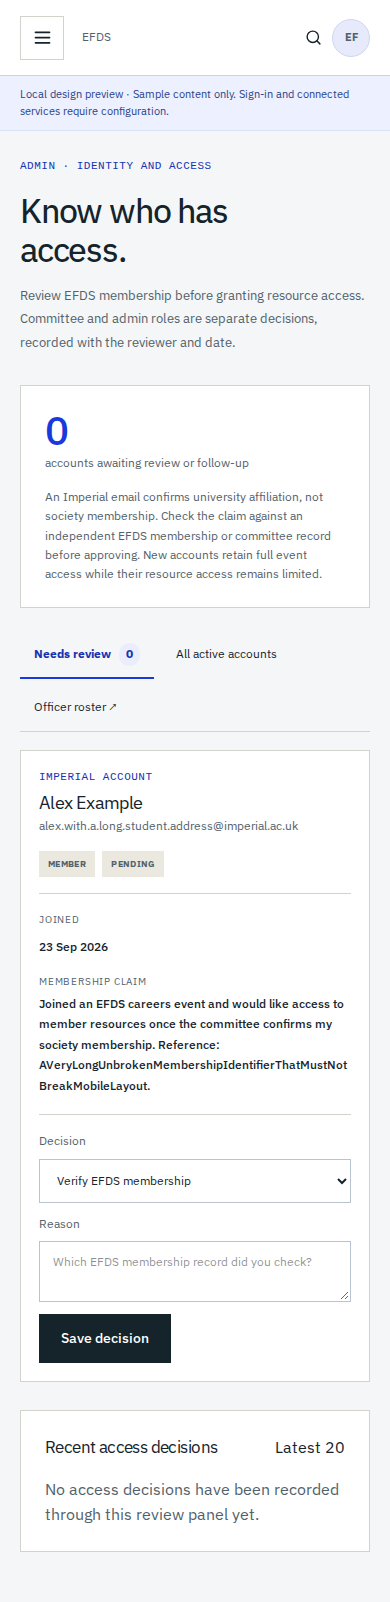
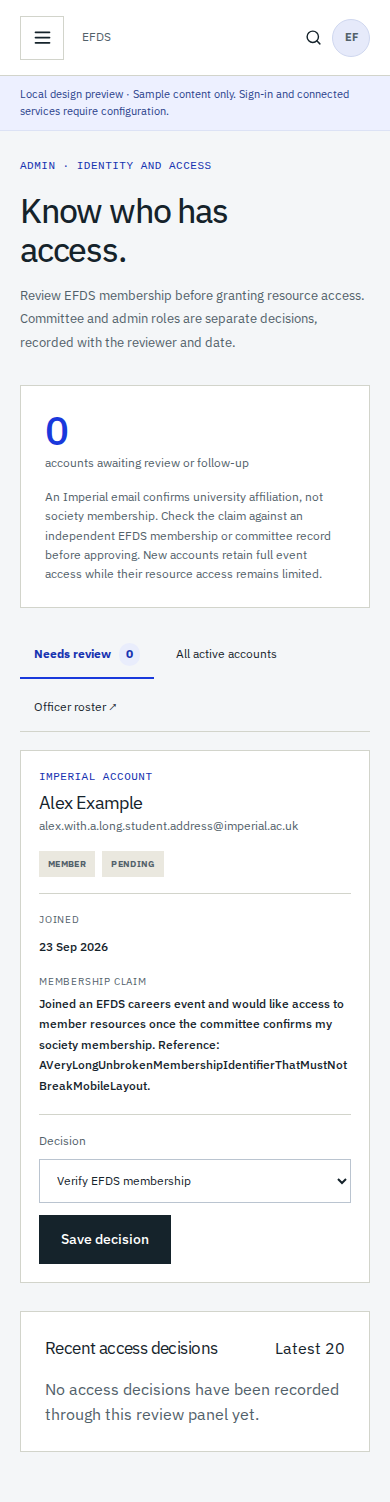
Merge committee and admin overview and simplify account review

Changed region(s): [[0.0308, 0.0, 0.9231, 0.8575], [0.0923, 0.8881, 0.8923, 0.9494]]

diff --git a/app/(private)/dashboard/page.tsx b/app/(private)/dashboard/page.tsx
@@ -1,5 +1,6 @@
 import Link from "next/link";
 import { ArrowUpRight, BookOpen, BriefcaseBusiness, Search, MessagesSquare, Plus } from "lucide-react";
+import { AdminOperationsSummary } from "@/components/dashboard/admin-operations-summary";
 import { DisciplineGraphic } from "@/components/public/discipline-graphic";
 import { TicketCard } from "@/components/tickets/ticket-card";
 import { DailySlackRecap } from "@/components/slack/daily-recap";
@@ -13,9 +14,10 @@ export default async function DashboardPage() {
   if (profile && hasMinimumRole(profile.accessRole, "committee")) {
     const [{ tickets, timelines }, recap] = await Promise.all([getTicketWorkspace(), getDailySlackRecap()]);
     const counts = ticketCounts(tickets);
+    const isAdmin = profile.accessRole === "admin";
     const mine = profile.officerId ? tickets.filter((ticket) => ticket.assignees.some((officer) => officer.id === profile.officerId) && ticket.status !== "completed" && ticket.status !== "cancelled") : [];
     const focus = (mine.length ? mine : tickets.filter((ticket) => ticket.status === "blocked" || ticket.status === "in_progress" || ticket.status === "open")).slice(0, 4);
-    return <div className="app-content ticket-page"><div className="eyebrow">Committee workspace</div><div className="ticket-page-heading"><div><h1>What needs<br />doing next.</h1><p className="app-subtitle">A live view of committee work, assignments and progress.</p></div><div className="ops-inline">{profile.accessRole === "admin" && <Link className="button button-quiet" href="/admin/accounts">Review accounts <ArrowUpRight size={15} /></Link>}<Link className="button button-primary" href="/dashboard/tickets/new"><Plus size={16} /> New ticket</Link></div></div><section className="ticket-metrics" aria-label="Ticket overview"><div><span>Left to complete</span><strong>{counts.left}</strong><small>{counts.total} total tickets</small></div><div><span>In progress</span><strong>{counts.inProgress}</strong><small>Being worked on</small></div><div><span>Blocked</span><strong>{counts.blocked}</strong><small>Needs help</small></div><div><span>Completed</span><strong>{counts.completed}</strong><small>Finished work</small></div></section><DailySlackRecap recap={recap} basePath="/dashboard/slack" /><div className="ticket-dashboard-focus"><div className="ticket-cluster-heading"><div><span>Where to focus</span><h2>{mine.length ? "Your active tickets" : "Active committee tickets"}</h2></div><Link href="/dashboard/tickets">Explore graph <ArrowUpRight size={15} /></Link></div>{focus.length ? <div className="ticket-cluster-cards">{focus.map((ticket) => <TicketCard key={ticket.id} ticket={ticket} timeline={timelines.get(ticket.id)} />)}</div> : <div className="empty-state"><h2>Nothing is waiting here.</h2><p>New committee tickets will appear as they are created or imported.</p></div>}</div></div>;
+    return <div className="app-content ticket-page"><div className="eyebrow">Society operations · overview</div><div className="ticket-page-heading"><div><h1>What needs<br />doing next.</h1><p className="app-subtitle">A live view of committee work, assignments and progress.</p></div><div className="ops-inline">{isAdmin && <Link className="button button-quiet" href="/admin/accounts">Review accounts <ArrowUpRight size={15} /></Link>}<Link className="button button-primary" href="/dashboard/tickets/new"><Plus size={16} /> New ticket</Link></div></div><section className="ticket-metrics" aria-label="Ticket overview"><div><span>Left to complete</span><strong>{counts.left}</strong><small>{counts.total} total tickets</small></div><div><span>In progress</span><strong>{counts.inProgress}</strong><small>Being worked on</small></div><div><span>Blocked</span><strong>{counts.blocked}</strong><small>Needs help</small></div><div><span>Completed</span><strong>{counts.completed}</strong><small>Finished work</small></div></section><DailySlackRecap recap={recap} basePath={isAdmin ? "/admin/slack" : "/dashboard/slack"} /><div className="ticket-dashboard-focus"><div className="ticket-cluster-heading"><div><span>Where to focus</span><h2>{mine.length ? "Your active tickets" : "Active committee tickets"}</h2></div><Link href="/dashboard/tickets">Explore graph <ArrowUpRight size={15} /></Link></div>{focus.length ? <div className="ticket-cluster-cards">{focus.map((ticket) => <TicketCard key={ticket.id} ticket={ticket} timeline={timelines.get(ticket.id)} />)}</div> : <div className="empty-state"><h2>Nothing is waiting here.</h2><p>New committee tickets will appear as they are created or imported.</p></div>}</div>{isAdmin && <AdminOperationsSummary />}</div>;
   }
   return <div className="app-content"><div className="eyebrow">Member workspace</div><h1>Welcome to your workspace.</h1><p className="app-subtitle">Society knowledge, resources and opportunities available to your account.</p>{profile?.accessRole === "member" && <div className="surface workspace-access-note"><div><strong>Your account has member access.</strong><p>Events and public resources are open to you. EFDS member resources require society verification.</p></div><Link href="/dashboard/profile">Request EFDS review <ArrowUpRight size={15} /></Link></div>}<section className="workspace-welcome"><div><div className="eyebrow">Start with a search</div><h2>Find what<br /><em>you need.</em></h2><p>Search the society’s available sources, follow a reference or ask the EFDS assistant.</p><Link className="button button-paper" href="/dashboard/search">Search your workspace <ArrowUpRight size={16} /></Link></div><DisciplineGraphic type="data" /></section><section aria-label="Workspace shortcuts" className="workspace-shortcuts">{[
     { title: "Knowledge", text: "Explore the society guidance published for your access.", href: "/dashboard/knowledge", Icon: BookOpen },

diff --git a/components/dashboard/sidebar.tsx b/components/dashboard/sidebar.tsx
@@ -3,22 +3,23 @@
 import Link from "next/link";
 import { usePathname } from "next/navigation";
 import { useEffect, useRef, useState } from "react";
-import { ArrowUpRight, BookOpen, BriefcaseBusiness, CalendarDays, CircleHelp, Gauge, LayoutDashboard, ListTodo, Menu, Search, Settings, UserRound, UsersRound, X } from "lucide-react";
+import { ArrowUpRight, BookOpen, BriefcaseBusiness, CalendarDays, CircleHelp, LayoutDashboard, ListTodo, Menu, Search, Settings, UserRound, UsersRound, X } from "lucide-react";
 import { Brand } from "@/components/public/brand";
 import type { AccessRole } from "@/types/domain";
 
 const memberItems = [
   ["Dashboard", "/dashboard", LayoutDashboard], ["Search", "/dashboard/search", Search], ["Knowledge", "/dashboard/knowledge", BookOpen], ["Careers", "/dashboard/careers", BriefcaseBusiness], ["Jobs", "/dashboard/jobs", BriefcaseBusiness], ["Events", "/dashboard/events", CalendarDays], ["Ask EFDS", "/dashboard/chat", CircleHelp], ["Profile", "/dashboard/profile", UserRound],
 ] as const;
-const adminItems = [["Tickets", "/dashboard/tickets", ListTodo], ["Overview", "/admin", Gauge], ["Accounts", "/admin/accounts", UsersRound], ["Search", "/admin/search", Search], ["Knowledge review", "/admin/knowledge", BookOpen], ["Document archive", "/admin/documents", BookOpen], ["Slack archive", "/admin/slack", BookOpen], ["Meeting archive", "/admin/meetings", CalendarDays], ["Operational truth", "/admin/operations", CalendarDays], ["Committee", "/admin/committee", UserRound], ["Integrations", "/admin/integrations", Settings]] as const;
-const committeeItems = [["Tickets", "/dashboard/tickets", ListTodo], ["Slack archive", "/dashboard/slack", BookOpen]] as const;
+const adminItems = [["Accounts", "/admin/accounts", UsersRound], ["Search", "/admin/search", Search], ["Knowledge review", "/admin/knowledge", BookOpen], ["Document archive", "/admin/documents", BookOpen], ["Slack archive", "/admin/slack", BookOpen], ["Meeting archive", "/admin/meetings", CalendarDays], ["Operational truth", "/admin/operations", CalendarDays], ["Committee", "/admin/committee", UserRound], ["Integrations", "/admin/integrations", Settings]] as const;
+const committeeItems = [["Slack archive", "/dashboard/slack", BookOpen]] as const;
 
 export function AppSidebar({ role = "member", onNavigate }: { role?: AccessRole; onNavigate?: () => void }) {
   const pathname = usePathname();
   const active = (href: string) => pathname === href || (href !== "/dashboard" && href !== "/admin" && pathname.startsWith(`${href}/`));
-  const items = memberItems.filter(([,href]) => href !== "/dashboard/knowledge" || ["member", "efds_member", "committee", "admin"].includes(role));
-  const operationsItems = role === "admin" ? adminItems : role === "committee" ? committeeItems : [];
-  return <aside className="app-sidebar" onClick={(event) => { if ((event.target as HTMLElement).closest("a")) onNavigate?.(); }}><Brand compact /><div className="sidebar-label">Your workspace</div><nav className="sidebar-nav" aria-label="Private navigation">{items.map(([label,href,Icon]) => <Link key={href} className={active(href) ? "active" : undefined} aria-current={active(href) ? "page" : undefined} href={href}><Icon size={16} />{label}</Link>)}</nav>{operationsItems.length > 0 && <><div className="sidebar-label">Society operations</div><nav className="sidebar-nav" aria-label="Society operations navigation">{operationsItems.map(([label,href,Icon]) => <Link key={href} className={active(href) ? "active" : undefined} aria-current={active(href) ? "page" : undefined} href={href}><Icon size={16} />{label}</Link>)}</nav></>}<div className="sidebar-bottom sidebar-nav"><Link href="/"><ArrowUpRight size={16} />Back to public site</Link></div></aside>;
+  const hasSocietyOperations = role === "committee" || role === "admin";
+  const items = memberItems.filter(([, href]) => (href !== "/dashboard/knowledge" || role !== "viewer") && (!hasSocietyOperations || href !== "/dashboard"));
+  const operationsItems = hasSocietyOperations ? [["Overview", "/dashboard", LayoutDashboard], ["Tickets", "/dashboard/tickets", ListTodo], ...(role === "admin" ? adminItems : committeeItems)] as const : [];
+  return <aside className="app-sidebar" onClick={(event) => { if ((event.target as HTMLElement).closest("a")) onNavigate?.(); }}><Brand compact />{hasSocietyOperations && <><div className="sidebar-label">Society operations</div><nav className="sidebar-nav" aria-label="Society operations navigation">{operationsItems.map(([label,href,Icon]) => <Link key={href} className={active(href) ? "active" : undefined} aria-current={active(href) ? "page" : undefined} href={href}><Icon size={16} />{label}</Link>)}</nav></>}<div className="sidebar-label">Your workspace</div><nav className="sidebar-nav" aria-label="Private navigation">{items.map(([label,href,Icon]) => <Link key={href} className={active(href) ? "active" : undefined} aria-current={active(href) ? "page" : undefined} href={href}><Icon size={16} />{label}</Link>)}</nav><div className="sidebar-bottom sidebar-nav"><Link href="/"><ArrowUpRight size={16} />Back to public site</Link></div></aside>;
 }
 
 export function WorkspaceMenu({ role }: { role: AccessRole }) {

diff --git a/tests/browser/redesign.spec.ts b/tests/browser/redesign.spec.ts
@@ -86,6 +86,17 @@ test("workspace navigation follows the selected route", async ({ page }, info) =
   await expect(page.getByRole("note")).toContainText("Local design preview");
 });
 
+test("admin navigation starts with one Society Operations overview", async ({ page }, info) => {
+  await page.goto("/admin/accounts");
+  if (info.project.name !== "desktop") await page.getByRole("button", { name: "Open workspace navigation", exact: true }).click();
+  const sidebar = info.project.name === "desktop" ? page.locator(".app-frame > .app-sidebar") : page.getByRole("dialog", { name: "Workspace navigation" }).locator(".app-sidebar");
+  await expect(sidebar.locator(".sidebar-label")).toHaveText(["Society operations", "Your workspace"]);
+  const operations = sidebar.getByRole("navigation", { name: "Society operations navigation" });
+  await expect(operations.getByRole("link").first()).toHaveText("Overview");
+  await expect(operations.getByRole("link", { name: "Overview" })).toHaveAttribute("href", "/dashboard");
+  await expect(sidebar.getByRole("navigation", { name: "Private navigation" }).getByRole("link", { name: "Dashboard" })).toHaveCount(0);
+});
+
 test("account menu opens the profile and security settings", async ({ page }) => {
   await page.goto("/dashboard");
   await page.locator(".account-trigger").click();
@@ -188,7 +199,7 @@ test("account review cards contain long claims without horizontal overflow", asy
   await page.evaluate(() => {
     const list = document.querySelector(".account-review-list");
     if (!list) throw new Error("Account review list missing");
-    list.innerHTML = `<article class="surface account-review-card"><div class="account-review-identity"><div><span class="eyebrow">imperial account</span><h2>Alex Example</h2><p>alex.with.a.long.student.address@imperial.ac.uk</p></div><div class="account-review-badges"><span class="badge badge-neutral">member</span><span class="badge badge-neutral">pending</span></div></div><div class="account-review-detail"><div><span>Joined</span><strong>23 Sep 2026</strong></div><div><span>Membership claim</span><p>Joined an EFDS careers event and would like access to member resources once the committee confirms my society membership. Reference: AVeryLongUnbrokenMembershipIdentifierThatMustNotBreakMobileLayout.</p></div></div><form class="account-review-form"><label class="form-label">Decision<select class="select"><option>Verify EFDS membership</option></select></label><label class="form-label">Reason<textarea class="textarea" rows="2" placeholder="Which EFDS membership record did you check?"></textarea></label><div class="account-review-actions"><button class="button button-dark" type="button">Save decision</button></div></form></article>`;
+    list.innerHTML = `<article class="surface account-review-card"><div class="account-review-identity"><div><span class="eyebrow">imperial account</span><h2>Alex Example</h2><p>alex.with.a.long.student.address@imperial.ac.uk</p></div><div class="account-review-badges"><span class="badge badge-neutral">member</span><span class="badge badge-neutral">pending</span></div></div><div class="account-review-detail"><div><span>Joined</span><strong>23 Sep 2026</strong></div><div><span>Membership claim</span><p>Joined an EFDS careers event and would like access to member resources once the committee confirms my society membership. Reference: AVeryLongUnbrokenMembershipIdentifierThatMustNotBreakMobileLayout.</p></div></div><form class="account-review-form"><label class="form-label">Decision<select class="select"><option>Verify EFDS membership</option></select></label><div class="account-review-actions"><button class="button button-dark" type="button">Save decision</button></div></form></article>`;
   });
   expect(await page.evaluate(() => document.documentElement.scrollWidth <= innerWidth)).toBe(true);
   await page.screenshot({ path: `artifacts/editorial/account-review-preview-${info.project.name}.png`, fullPage: true });

diff --git a/app/admin/page.tsx b/app/admin/page.tsx
@@ -1,41 +1,5 @@
-import Link from "next/link";
-import { ArrowRight } from "lucide-react";
-import { DailySlackRecap } from "@/components/slack/daily-recap";
-import { isSupabaseConfigured } from "@/lib/config";
-import { getKnowledgeDashboard } from "@/lib/db/knowledge-ops";
-import { getDailySlackRecap } from "@/lib/db/slack-recap";
+import { redirect } from "next/navigation";
 
-export default async function AdminPage() {
-  const [dashboard, recap] = await Promise.all([getKnowledgeDashboard(), getDailySlackRecap()]);
-  return <div className="app-content">
-    <div className="eyebrow">EFDS operations</div>
-    <h1>Keep the<br />system clear.</h1>
-    <p className="app-subtitle">The knowledge operations surface keeps ICU source, extraction, review and publication decisions visible in one place.</p>
-    <div className="ops-inline" style={{ margin: "20px 0 28px" }}><Link className="button button-dark" href="/admin/accounts">Review accounts <ArrowRight size={14} /></Link><Link className="button button-quiet" href="/dashboard/tickets">Open ticket board <ArrowRight size={14} /></Link></div>
-    <div className="metric-grid">
-      <Metric label="ICU articles" value={dashboard.articles.total} note={`${dashboard.articles.high + dashboard.articles.critical} high or critical`} />
-      <Metric label="Review attention" value={dashboard.attention} note="proposed, stale or failed" />
-      <Metric label="Approved" value={dashboard.review.approved ?? 0} note="derived records" />
-      <Metric label="Published" value={dashboard.published} note="explicit visibility" />
-    </div>
-    {isSupabaseConfigured && <DailySlackRecap recap={recap} basePath="/admin/slack" />}
-    <div className="app-grid">
-      <section className="surface app-panel">
-        <div className="panel-heading"><h2>Knowledge operations</h2><Link href="/admin/knowledge">Open dashboard <ArrowRight size={12} /></Link></div>
-        <div className="queue-row"><div><h3>Review queue</h3><p>{dashboard.review.proposed ?? 0} proposed · {dashboard.review.needs_review ?? 0} deferred</p></div><Link className="badge badge-coral" href="/admin/knowledge/review?status=proposed">Review</Link></div>
-        <div className="queue-row"><div><h3>Stale knowledge</h3><p>{dashboard.review.stale ?? 0} records are tied to an older ICU source hash</p></div><Link className="badge badge-coral" href="/admin/knowledge/stale">Open</Link></div>
-        <div className="queue-row"><div><h3>Source health</h3><p>Latest sync: {String(dashboard.latestSync?.status ?? "not connected")}</p></div><Link className="badge badge-neutral" href="/admin/knowledge#source-health">Inspect</Link></div>
-      </section>
-      <aside className="surface-dark app-panel">
-        <div className="eyebrow" style={{ color: "var(--mint)" }}>Publication boundary</div>
-        <h2 style={{ fontSize: 20, fontWeight: 500, marginTop: 26 }}>Selection stays explicit.</h2>
-        <p style={{ color: "rgba(247,247,243,.68)", fontSize: 12, lineHeight: 1.5 }}>Approved knowledge remains internal until an administrator explicitly chooses committee, member or public visibility.</p>
-        <Link className="button button-primary" href="/admin/knowledge/review?status=approved" style={{ marginTop: 20 }}>Review approved records</Link>
-      </aside>
-    </div>
-  </div>;
-}
-
-function Metric({ label, value, note }: { label: string; value: number; note: string }) {
-  return <div className="metric surface"><span>{label}</span><strong>{value}</strong><small>{note}</small></div>;
+export default function AdminPage() {
+  redirect("/dashboard");
 }

diff --git a/components/dashboard/admin-operations-summary.tsx b/components/dashboard/admin-operations-summary.tsx
@@ -1,0 +1,35 @@
+import Link from "next/link";
+import { ArrowRight } from "lucide-react";
+import { getKnowledgeDashboard } from "@/lib/db/knowledge-ops";
+
+export async function AdminOperationsSummary() {
+  const dashboard = await getKnowledgeDashboard();
+
+  return <section className="society-admin-overview" aria-labelledby="knowledge-operations-heading">
+    <div className="ticket-cluster-heading"><div><span>Admin view</span><h2 id="knowledge-operations-heading">Knowledge and review health</h2></div><Link href="/admin/knowledge">Open knowledge dashboard <ArrowRight size={14} /></Link></div>
+    <div className="metric-grid">
+      <Metric label="ICU articles" value={dashboard.articles.total} note={`${dashboard.articles.high + dashboard.articles.critical} high or critical`} />
+      <Metric label="Review attention" value={dashboard.attention} note="proposed, stale or failed" />
+      <Metric label="Approved" value={dashboard.review.approved ?? 0} note="derived records" />
+      <Metric label="Published" value={dashboard.published} note="explicit visibility" />
+    </div>
+    <div className="app-grid">
+      <section className="surface app-panel">
+        <div className="panel-heading"><h3>Knowledge operations</h3><Link href="/admin/knowledge">Open dashboard <ArrowRight size={12} /></Link></div>
+        <div className="queue-row"><div><h3>Review queue</h3><p>{dashboard.review.proposed ?? 0} proposed · {dashboard.review.needs_review ?? 0} deferred</p></div><Link className="badge badge-coral" href="/admin/knowledge/review?status=proposed">Review</Link></div>
+        <div className="queue-row"><div><h3>Stale knowledge</h3><p>{dashboard.review.stale ?? 0} records are tied to an older ICU source hash</p></div><Link className="badge badge-coral" href="/admin/knowledge/stale">Open</Link></div>
+        <div className="queue-row"><div><h3>Source health</h3><p>Latest sync: {String(dashboard.latestSync?.status ?? "not connected")}</p></div><Link className="badge badge-neutral" href="/admin/knowledge#source-health">Inspect</Link></div>
+      </section>
+      <aside className="surface-dark app-panel">
+        <div className="eyebrow" style={{ color: "var(--mint)" }}>Publication boundary</div>
+        <h3 style={{ fontSize: 20, fontWeight: 500, marginTop: 26 }}>Selection stays explicit.</h3>
+        <p style={{ color: "rgba(247,247,243,.68)", fontSize: 12, lineHeight: 1.5 }}>Approved knowledge remains internal until an administrator explicitly chooses committee, member or public visibility.</p>
+        <Link className="button button-primary" href="/admin/knowledge/review?status=approved" style={{ marginTop: 20 }}>Review approved records</Link>
+      </aside>
+    </div>
+  </section>;
+}
+
+function Metric({ label, value, note }: { label: string; value: number; note: string }) {
+  return <div className="metric surface"><span>{label}</span><strong>{value}</strong><small>{note}</small></div>;
+}

diff --git a/components/dashboard/app-shell.tsx b/components/dashboard/app-shell.tsx
@@ -7,5 +7,5 @@ import type { AccessProfile, AccessRole } from "@/types/domain";
 
 export function AppShell({ children, role = "member", profile = null }: { children: React.ReactNode; role?: AccessRole; profile?: AccessProfile | null }) {
   const preview = !isSupabaseConfigured && process.env.NODE_ENV !== "production";
-  return <div className="app-layout"><div className="app-frame"><AppSidebar role={role} /><main className="app-main" id="main-content"><div className="app-topbar"><WorkspaceMenu role={role} /><span className="breadcrumb">EFDS <span className="muted">/ {role === "admin" ? "Society operations" : "Your workspace"}</span></span><div className="profile-chip"><Link className="text-link" href={role === "admin" ? "/admin/search" : "/dashboard/search"} aria-label="Search workspace"><Search size={17} /></Link><AccountMenu profile={profile} role={role} preview={preview} /></div></div>{preview && <div className="preview-banner" role="note">Local design preview · Sample content only. Sign-in and connected services require configuration.</div>}{children}</main></div></div>;
+  return <div className="app-layout"><div className="app-frame"><AppSidebar role={role} /><main className="app-main" id="main-content"><div className="app-topbar"><WorkspaceMenu role={role} /><span className="breadcrumb">EFDS <span className="muted">/ {role === "admin" || role === "committee" ? "Society operations" : "Your workspace"}</span></span><div className="profile-chip"><Link className="text-link" href={role === "admin" ? "/admin/search" : "/dashboard/search"} aria-label="Search workspace"><Search size={17} /></Link><AccountMenu profile={profile} role={role} preview={preview} /></div></div>{preview && <div className="preview-banner" role="note">Local design preview · Sample content only. Sign-in and connected services require configuration.</div>}{children}</main></div></div>;
 }

diff --git a/lib/actions/accounts.ts b/lib/actions/accounts.ts
@@ -10,24 +10,22 @@ const reviewSchema = z.object({
   profileId: z.uuid(),
   version: z.coerce.number().int().positive(),
   action: z.enum(["verify", "decline", "promote_committee", "promote_admin", "demote_member", "link_officer"]),
-  reason: z.string().trim().max(500).optional(),
-  officerId: z.union([z.uuid(), z.literal("")]).optional(),
+  officerId: z.uuid().optional(),
 });
 
 export async function reviewAccount(formData: FormData) {
   await requireRole("admin");
   const parsed = reviewSchema.safeParse({
     profileId: formData.get("profileId"), version: formData.get("version"),
-    action: formData.get("action"), reason: formData.get("reason"), officerId: formData.get("officerId"),
+    action: formData.get("action"), officerId: formData.get("officerId") || undefined,
   });
   if (!parsed.success) redirect("/admin/accounts?error=invalid_request");
-  const { profileId, version, action, reason, officerId } = parsed.data;
-  if (action !== "link_officer" && !reason) redirect("/admin/accounts?error=reason_required");
+  const { profileId, version, action, officerId } = parsed.data;
   if (action === "link_officer" && !officerId) redirect("/admin/accounts?error=officer_required");
   const supabase = await createServerSupabaseClient();
   const { error } = await supabase.rpc("review_efds_account", {
     p_target_profile_id: profileId, p_expected_version: version, p_action: action,
-    p_reason: reason || null, p_officer_id: officerId || null,
+    p_reason: null, p_officer_id: officerId || null,
   });
   if (error) {
     if (error.code === "40001" || error.message.includes("profile changed")) redirect("/admin/accounts?error=stale");

diff --git a/tests/workspace-navigation.test.tsx b/tests/workspace-navigation.test.tsx
@@ -1,0 +1,26 @@
+// @vitest-environment jsdom
+import { describe, expect, it, vi } from "vitest";
+import { render, screen, within } from "@testing-library/react";
+
+vi.mock("next/navigation", () => ({ usePathname: () => "/dashboard" }));
+
+import { AppSidebar } from "../components/dashboard/sidebar";
+
+describe("workspace navigation", () => {
+  it.each(["committee", "admin"] as const)("puts the shared overview first for %s", (role) => {
+    const { container } = render(<AppSidebar role={role} />);
+    const operations = screen.getByRole("navigation", { name: "Society operations navigation" });
+    const workspace = screen.getByRole("navigation", { name: "Private navigation" });
+    expect(within(operations).getAllByRole("link").slice(0, 2).map((link) => link.textContent)).toEqual(["Overview", "Tickets"]);
+    expect(within(operations).getByRole("link", { name: "Overview" }).getAttribute("href")).toBe("/dashboard");
+    expect(within(workspace).queryByRole("link", { name: "Dashboard" })).toBeNull();
+    const labels = [...container.querySelectorAll(".sidebar-label")].map((label) => label.textContent);
+    expect(labels).toEqual(["Society operations", "Your workspace"]);
+  });
+
+  it("keeps the dashboard in the member workspace", () => {
+    render(<AppSidebar role="member" />);
+    expect(screen.queryByRole("navigation", { name: "Society operations navigation" })).toBeNull();
+    expect(within(screen.getByRole("navigation", { name: "Private navigation" })).getByRole("link", { name: "Dashboard" }).getAttribute("href")).toBe("/dashboard");
+  });
+});

diff --git a/components/admin/account-review-form.tsx b/components/admin/account-review-form.tsx
@@ -25,7 +25,6 @@ export function AccountReviewForm({ account, officers, isSelf }: { account: Revi
       ? [{ value: "promote_committee", label: "Grant committee access" }, { value: "promote_admin", label: "Grant admin access" }]
       : [{ value: "verify", label: "Verify EFDS membership" }, { value: "decline", label: "Decline verification" }];
   const [action, setAction] = useState<Action>(available[0].value);
-  const needsReason = action !== "link_officer";
   const needsOfficer = action === "link_officer";
 
   return <form action={reviewAccount} className="account-review-form">
@@ -41,9 +40,6 @@ export function AccountReviewForm({ account, officers, isSelf }: { account: Revi
         <option value="" disabled>Choose an officer</option>
         {officers.map((officer) => <option key={officer.id} value={officer.id}>{officer.name} · {officer.role} ({officer.academicYear})</option>)}
       </select>
-    </label>}
-    {needsReason && <label className="form-label">Reason
-      <textarea className="textarea" name="reason" rows={2} maxLength={500} required placeholder={action === "verify" ? "Which EFDS membership record did you check?" : action === "decline" ? "State what was checked and why verification was declined" : "Explain this access change"} />
     </label>}
     <div className="account-review-actions"><SubmitReview />{isSelf && <small>Your own role cannot be changed here.</small>}</div>
   </form>;

diff --git a/tests/account-review-action.test.ts b/tests/account-review-action.test.ts
@@ -1,0 +1,32 @@
+import { beforeEach, describe, expect, it, vi } from "vitest";
+
+const rpc = vi.fn();
+
+vi.mock("../lib/auth/server", () => ({ requireRole: vi.fn(async () => ({ profile: { id: "admin-profile" } })) }));
+vi.mock("../lib/supabase/server", () => ({ createServerSupabaseClient: vi.fn(async () => ({ rpc })) }));
+vi.mock("next/cache", () => ({ revalidatePath: vi.fn() }));
+vi.mock("next/navigation", () => ({ redirect: vi.fn() }));
+
+import { reviewAccount } from "../lib/actions/accounts";
+
+describe("account review action", () => {
+  beforeEach(() => rpc.mockReset());
+
+  it("accepts a membership decision without an officer or reason field", async () => {
+    rpc.mockResolvedValue({ data: [], error: null });
+    const form = new FormData();
+    form.set("profileId", "11111111-1111-4111-8111-111111111111");
+    form.set("version", "1");
+    form.set("action", "verify");
+
+    await reviewAccount(form);
+
+    expect(rpc).toHaveBeenCalledWith("review_efds_account", {
+      p_target_profile_id: "11111111-1111-4111-8111-111111111111",
+      p_expected_version: 1,
+      p_action: "verify",
+      p_reason: null,
+      p_officer_id: null,
+    });
+  });
+});

diff --git a/app/tickets.css b/app/tickets.css
@@ -166,6 +166,10 @@
 .ticket-activity .ticket-activity-sync { border-top: 1px solid var(--line); margin-top: 8px; padding-top: 15px; }
 .ticket-dashboard-focus { background: var(--white); border: 1px solid var(--line); margin-top: 30px; max-width: 920px; }
 .ticket-dashboard-focus .ticket-cluster-heading a { align-items: center; color: var(--cobalt); display: inline-flex; font-size: 12px; gap: 6px; }
+.society-admin-overview { border-top: 1px solid var(--line); margin-top: 40px; padding-top: 14px; }
+.society-admin-overview > .ticket-cluster-heading { padding-inline: 0; }
+.society-admin-overview .ticket-cluster-heading a { align-items: center; color: var(--cobalt-dark); display: inline-flex; font-size: 12px; gap: 6px; }
+.society-admin-overview .metric-grid { margin: 20px 0 24px; }
 .ticket-suggestions { background: var(--paper-deep); border: 1px solid var(--line); margin-top: 38px; padding: 25px; }
 .ticket-suggestions-intro { align-items: start; display: flex; gap: 25px; justify-content: space-between; }
 .ticket-suggestions-intro > svg { color: var(--cobalt); flex: none; }

diff --git a/app/admin/accounts/page.tsx b/app/admin/accounts/page.tsx
@@ -9,7 +9,6 @@ export const metadata: Metadata = { title: "Account review" };
 
 const errors: Record<string, string> = {
   invalid_request: "The review details were invalid. Refresh and try again.",
-  reason_required: "Add a reason for this decision.",
   officer_required: "Choose an officer roster entry.",
   stale: "This account changed since you opened it. Review the latest details and try again.",
   officer_taken: "This officer identity is linked to another active account.",
